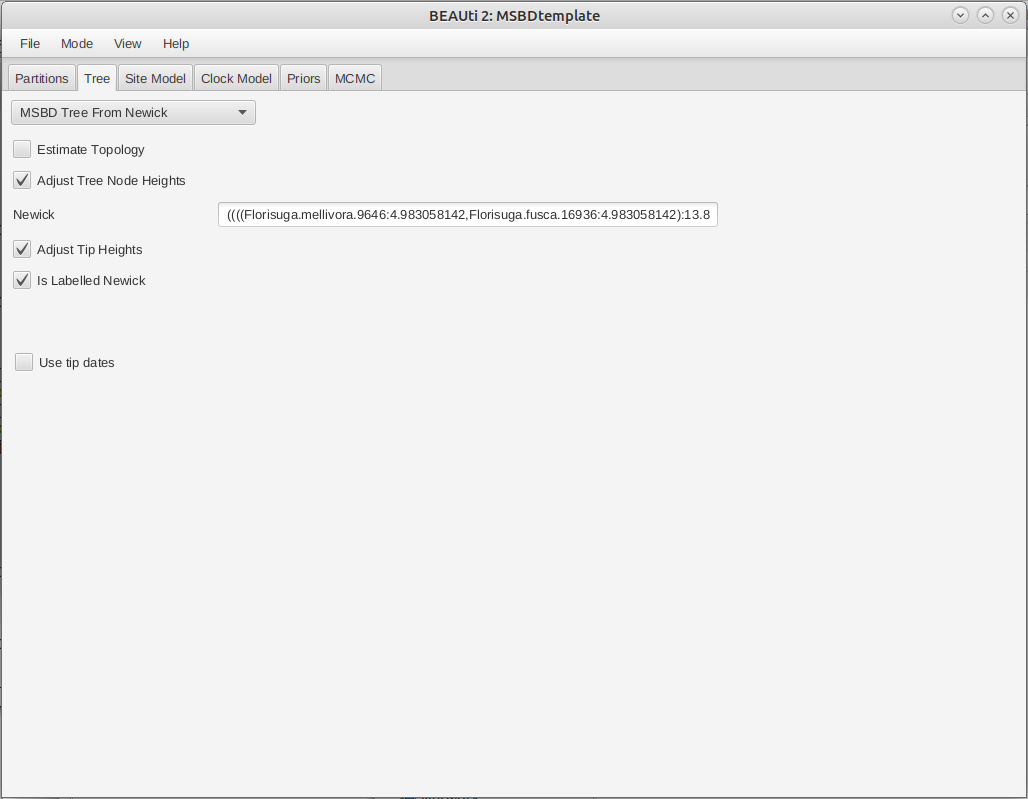
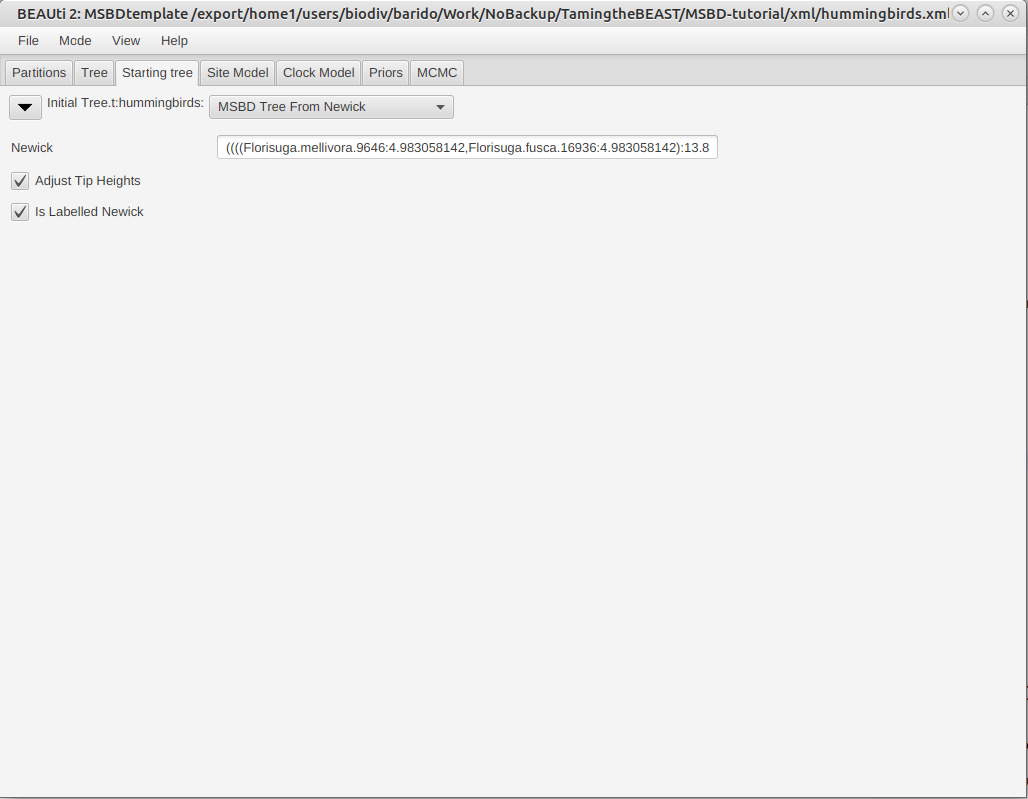
modified starting tree setup

diff --git a/README.md b/README.md
@@ -116,11 +116,15 @@ This analysis will be run with a fixed tree topology, however BEAUti requires an
 
 ### Importing the tree
 
-As mentioned earlier, we want to run this analysis with a fixed tree topology. By default BEAUti generates a random starting tree compatible with the alignment, so we need to change this to our fixed tree.
+As mentioned earlier, we want to run this analysis with a fixed tree topology. First, we need to specify that our tree is fixed and will not be changed during the inference.
 
-> In the **Tree** panel, set the dropdown to **Tree From Newick**.
+> In the **Tree** panel, uncheck the **Estimate Topology** checkbox.
+> 
+
+Then we need to actually provide the tree to use. By default BEAUti generates a random starting tree compatible with the alignment, so we need to change this to our fixed tree.
+
+> In the **Starting Tree** panel, set the dropdown to **Tree From Newick**.
 > Copy-paste the Newick tree found in the `hummingbirds_initial_tree.tre` file into the **Newick** field.
-> Uncheck the **Estimate Topology** checkbox.
 >
 
 The final tree configuration is shown in [Figure 5](#importTree).
